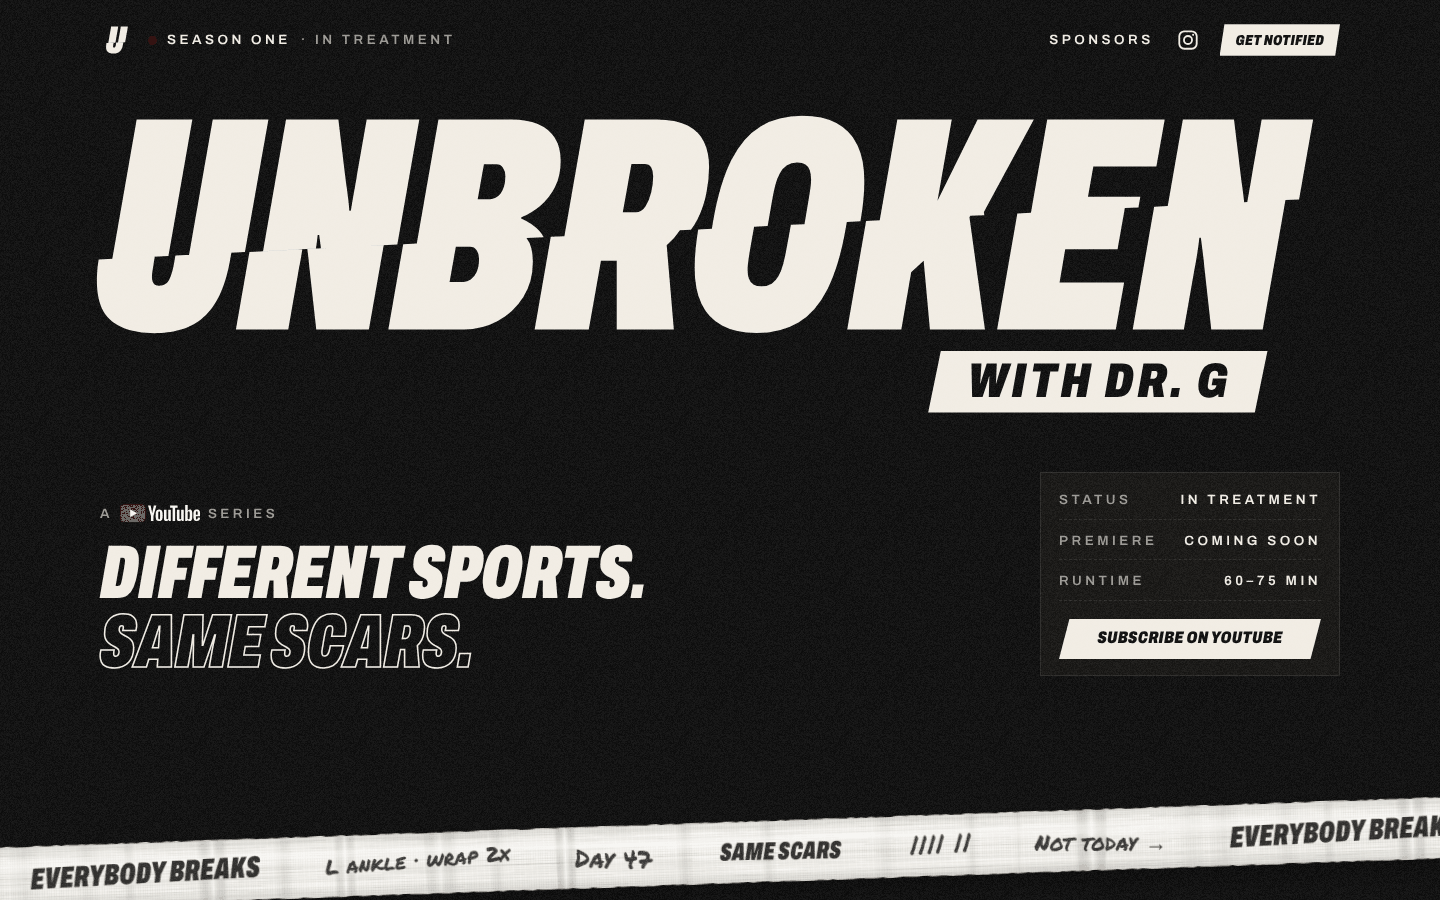
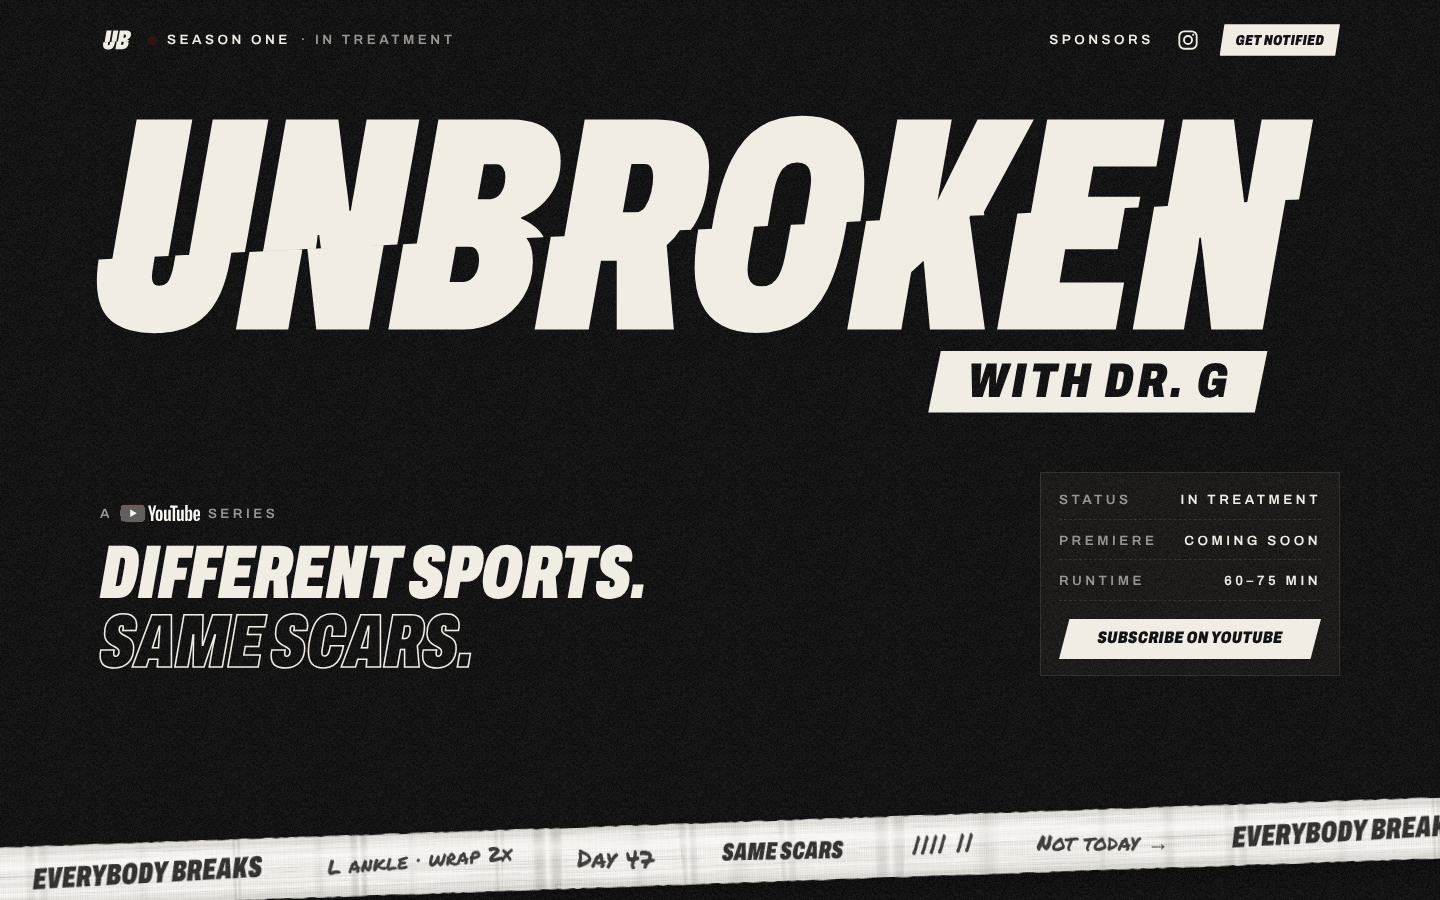
Lettermark becomes a UB monogram
U and B set as a pair with the wordmark's spacing and the same cut.
Header, chart and footer icons, favicons and README previews updated.

Claude-Session: https://claude.ai/code/session_01VykHYx9N7YApPQg7ihujk5

diff --git a/public/index.html b/public/index.html
@@ -303,7 +303,7 @@ display: grid; gap: 14px;
 <body>
 <svg width="0" height="0" style="position:absolute" aria-hidden="true">
 <symbol id="lockup" viewBox="0 0 1375.68 355.32"><path transform="translate(336.49 13.16)" d="M-79.65 142.68 L-79.45 141.22 L-79.26 139.81 L-79.09 138.44 L-78.92 137.11 L-78.77 135.83 L-78.62 134.59 L-78.49 133.40 L-78.38 132.25 L-76.69 132.25 L-76.52 133.51 L-76.35 134.79 L-76.17 136.09 L-75.99 137.43 L-75.81 138.80 L-75.63 140.19 L-75.45 141.61 L-75.26 143.06 L-75.07 144.53 L-74.88 146.04 L-74.77 146.94 L9.99 142.70 L34.39 3.96 L-24.02 3.96 L-34.49 63.72 L-34.72 65.20 L-34.96 66.73 L-35.21 68.31 L-35.48 69.93 L-35.76 71.59 L-36.05 73.30 L-36.35 75.05 L-36.66 76.85 L-36.99 78.69 L-37.32 80.58 L-37.67 82.51 L-38.03 84.48 L-38.39 86.46 L-38.74 88.39 L-39.08 90.27 L-39.40 92.12 L-39.71 93.91 L-40.01 95.67 L-40.30 97.37 L-40.58 99.04 L-40.85 100.66 L-41.10 102.23 L-41.35 103.76 L-41.58 105.24 L-43.26 105.24 L-43.32 104.34 L-43.39 103.44 L-43.45 102.53 L-43.53 101.62 L-43.60 100.71 L-43.69 99.80 L-43.77 98.89 L-43.86 97.97 L-43.96 97.05 L-44.06 96.12 L-44.17 95.20 L-44.28 94.27 L-44.39 93.35 L-44.50 92.42 L-44.61 91.51 L-44.73 90.60 L-44.84 89.69 L-44.95 88.79 L-45.06 87.89 L-45.18 86.99 L-45.29 86.11 L-45.40 85.22 L-45.51 84.34 L-45.63 83.47 L-45.74 82.60 L-45.85 81.75 L-45.97 80.90 L-46.08 80.07 L-46.19 79.25 L-46.30 78.45 L-46.42 77.65 L-46.53 76.87 L-46.64 76.09 L-46.75 75.33 L-46.87 74.58 L-46.98 73.85 L-55.42 3.96 L-113.49 3.96 L-138.99 150.15 L-80.31 147.21 L-80.09 145.74 L-79.86 144.19ZM-159.05 151.15 L-133.02 3.96 L-194.80 3.96 L-221.13 154.26ZM-306.10 157.74 L-306.23 158.51 L-243.95 155.40 L-217.42 3.96 L-279.20 3.96 L-305.88 156.56ZM-89.39 151.46 L-89.20 152.99 L-89.02 154.50 L-88.85 155.97 L-88.69 157.42 L-88.53 158.84 L-88.38 160.23 L-88.23 161.60 L-88.10 162.94 L-87.97 164.24 L-87.84 165.52 L-87.73 166.78 L-79.96 237.00 L-21.55 237.00 L-5.10 143.46 L-89.86 147.70 L-89.78 148.33 L-89.58 149.89ZM-98.03 163.62 L-97.76 162.18 L-97.49 160.71 L-97.22 159.22 L-96.96 157.70 L-96.69 156.16 L-96.43 154.59 L-96.17 152.99 L-95.92 151.37 L-95.66 149.73 L-95.41 148.09 L-95.40 147.97 L-154.08 150.91 L-169.09 237.00 L-111.02 237.00 L-98.87 167.79 L-98.59 166.43 L-98.31 165.04ZM-241.77 239.73 L-238.50 239.15 L-235.30 238.47 L-232.17 237.68 L-229.11 236.78 L-226.12 235.78 L-223.21 234.67 L-220.36 233.46 L-217.58 232.12 L-214.88 230.64 L-212.26 229.01 L-209.72 227.25 L-207.26 225.34 L-204.87 223.28 L-202.56 221.09 L-200.32 218.75 L-198.17 216.27 L-196.09 213.64 L-194.09 210.88 L-192.17 207.97 L-190.32 204.89 L-188.56 201.64 L-186.88 198.22 L-185.28 194.61 L-183.77 190.83 L-182.33 186.86 L-180.98 182.72 L-179.71 178.40 L-178.52 173.91 L-177.42 169.23 L-176.39 164.38 L-175.45 159.35 L-174.14 151.91 L-236.22 155.02 L-237.58 162.72 L-237.92 164.66 L-238.29 166.53 L-238.67 168.33 L-239.08 170.06 L-239.50 171.72 L-239.94 173.32 L-240.40 174.84 L-240.88 176.30 L-241.37 177.70 L-241.89 179.02 L-242.42 180.27 L-242.98 181.46 L-243.57 182.57 L-244.22 183.58 L-244.94 184.49 L-245.72 185.31 L-246.55 186.03 L-247.45 186.65 L-248.41 187.18 L-249.43 187.61 L-250.51 187.95 L-251.65 188.19 L-252.85 188.34 L-254.12 188.38 L-254.83 188.37 L-255.51 188.31 L-256.15 188.22 L-256.76 188.10 L-257.34 187.94 L-257.87 187.75 L-258.38 187.52 L-258.84 187.26 L-259.28 186.96 L-259.67 186.62 L-260.04 186.26 L-260.36 185.85 L-260.66 185.41 L-260.93 184.95 L-261.18 184.45 L-261.40 183.92 L-261.59 183.36 L-261.76 182.77 L-261.90 182.15 L-262.01 181.50 L-262.10 180.82 L-262.17 180.11 L-262.21 179.36 L-262.22 178.59 L-262.22 178.08 L-262.20 177.55 L-262.18 177.01 L-262.15 176.45 L-262.10 175.88 L-262.05 175.30 L-261.99 174.70 L-261.92 174.09 L-261.84 173.46 L-261.75 172.82 L-261.65 172.17 L-261.55 171.50 L-261.43 170.82 L-261.32 170.13 L-261.21 169.43 L-261.10 168.73 L-260.98 168.01 L-260.87 167.28 L-260.76 166.55 L-260.65 165.80 L-260.53 165.05 L-260.42 164.28 L-260.31 163.51 L-260.20 162.72 L-259.04 156.16 L-321.32 159.27 L-321.39 159.67 L-321.59 160.84 L-321.77 161.99 L-321.95 163.14 L-322.11 164.29 L-322.25 165.42 L-322.39 166.55 L-322.52 167.67 L-322.63 168.79 L-322.73 169.90 L-322.82 171.00 L-322.90 172.09 L-322.98 173.17 L-323.04 174.24 L-323.10 175.29 L-323.16 176.34 L-323.20 177.37 L-323.24 178.39 L-323.27 179.40 L-323.30 180.40 L-323.32 181.38 L-323.33 182.36 L-323.33 183.32 L-323.21 188.48 L-322.86 193.38 L-322.27 198.02 L-321.45 202.39 L-320.40 206.51 L-319.11 210.37 L-317.59 213.97 L-315.83 217.31 L-313.83 220.38 L-311.61 223.20 L-309.14 225.76 L-306.45 228.05 L-303.54 230.13 L-300.45 232.02 L-297.16 233.74 L-293.69 235.27 L-290.04 236.63 L-286.19 237.80 L-282.16 238.79 L-277.94 239.61 L-273.53 240.24 L-268.94 240.69 L-264.15 240.96 L-259.18 241.05 L-255.56 241.00 L-252.01 240.84 L-248.53 240.58 L-245.12 240.21ZM523.81 117.01 508.67 117.77Q508.13 121.22 507.5 124.8Q500.24 166.38 487.37 191.96Q474.5 217.53 455.03 229.24Q435.56 240.96 408.5 240.96Q385.4 240.96 370.22 232.71Q355.04 224.46 347.45 208.46Q339.86 192.45 339.86 168.69Q339.86 158.46 341.02 146.91Q342 137.06 343.82 126.01L359 125.25Q359.67 120.81 360.48 116.16Q367.74 74.58 380.61 49.01Q393.48 23.43 412.95 11.72Q432.42 0.0 459.15 0.0Q482.25 0.0 497.6 8.25Q512.94 16.5 520.53 32.67Q528.12 48.84 528.12 72.6Q528.12 82.83 526.97 94.21Q525.89 104.83 523.81 117.01ZM172.38 134.58 153.26 135.54Q160.38 144.59 160.38 161.76Q160.38 184.2 149.66 201.2Q138.93 218.19 121.44 227.6Q103.95 237.0 83.82 237.0H0.0L16.5 142.38L31.59 141.62L55.6 3.96H137.11Q153.61 3.96 165.82 9.08Q178.03 14.19 184.63 24.42Q191.23 34.65 191.23 49.83Q191.23 66.66 184.96 79.04Q178.69 91.41 168.79 99.66Q158.89 107.91 147.67 112.53L147.34 113.85Q159.88 119.13 168.13 128.21Q170.64 130.96 172.38 134.58ZM335.71 126.42 323.49 127.03Q317.52 136.43 308.86 143.61L316.78 237.0H253.42V160.77H235.93L222.4 237.0H162.34L180.27 134.19L195.36 133.44L217.94 3.96H297.47Q319.25 3.96 332.12 10.72Q344.99 17.49 350.43 29.2Q355.88 40.92 355.88 56.43Q355.88 70.29 352.91 85.63Q349.94 100.98 343.17 114.51Q339.98 120.91 335.71 126.42ZM949.53 95.73 952.97 95.55Q953.96 89.67 955.24 82.67Q957.39 70.95 958.71 62.37L968.94 3.96H1026.03L1010.43 92.68L995.35 93.44L970.1 237.0H913.01L905.42 168.36Q904.76 161.1 903.61 151.86Q902.45 142.62 901.46 135.36H899.81Q899.15 141.96 897.67 151.69Q896.18 161.43 894.53 169.35L882.65 237.0H825.89L849.66 100.72L864.74 99.97L881.49 3.96H938.25L946.5 72.27Q947.16 76.56 947.82 81.67Q948.48 86.79 949.14 92.23Q949.35 93.99 949.53 95.73ZM661.25 110.14 645.66 110.92 644.76 112.59 661.92 237.0H600.87L593.94 160.77L580.08 173.64L569.19 237.0H509.13L530.11 116.7L545.2 115.94L564.73 3.96H625.12L609.28 94.05L653.83 3.96H716.2L660.76 106.59ZM832.22 101.59 817.15 102.35 809.08 147.9H751.0L744.73 184.86H816.34L807.1 237.0H675.43L697.88 108.31L712.96 107.56L731.03 3.96H861.38L852.14 56.1H782.18L776.24 89.76H834.32ZM612.95 261.0H975.35L961.35 329.0H598.95ZM461.71 120.12Q462.99 112.89 463.93 107.25Q466.08 94.38 467.24 87.12Q468.39 79.86 468.72 76.23Q469.05 72.6 469.05 70.29Q469.05 64.35 467.57 60.23Q466.08 56.1 462.78 53.96Q459.48 51.81 453.54 51.81Q446.94 51.81 442.32 54.78Q437.7 57.75 434.57 63.36Q431.43 68.97 429.45 76.56Q427.47 84.15 425.82 93.72Q422.94 110.48 420.89 122.16L405.81 122.91Q404.75 128.96 403.88 133.88Q401.57 146.91 400.42 154.17Q399.26 161.43 398.93 164.89Q398.6 168.36 398.6 171.0Q398.6 176.61 400.09 180.73Q401.57 184.86 405.04 187Q408.5 189.15 414.11 189.15Q420.71 189.15 425.33 186.18Q429.95 183.21 432.92 177.76Q435.89 172.32 438.04 164.57Q440.18 156.81 441.83 147.24Q444.71 131.87 446.63 120.87ZM260.18 106.92H274.7Q280.97 106.92 285.26 100.49Q289.55 94.05 291.69 84.81Q293.84 75.57 293.84 66.99Q293.84 61.05 291.69 57.26Q289.55 53.46 284.27 53.46H269.75ZM647.7 312.0H659.31L664.82 294.88Q665.04 294.23 665.34 293.26Q665.63 292.29 665.96 291.24Q666.28 290.18 666.55 289.27H666.93Q666.87 290.08 666.82 291.1Q666.77 292.13 666.71 293.13Q666.66 294.13 666.66 294.88L666.23 312.0H678L691.39 274.85H680.97L676 291.43Q675.78 292.13 675.51 293.1Q675.24 294.07 674.97 295.1Q674.7 296.12 674.43 297.04H674.06Q674.11 296.12 674.16 295.07Q674.22 294.02 674.3 293.05Q674.38 292.07 674.38 291.43L675.08 274.85H663.96L658.67 291.43Q658.45 292.02 658.18 292.96Q657.91 293.91 657.59 294.99Q657.26 296.07 656.99 297.04H656.61Q656.67 296.07 656.75 294.99Q656.83 293.91 656.91 292.96Q656.99 292.02 656.99 291.43L658.07 274.85H647ZM67.98 184.2H83.82Q87.45 184.2 91.41 181.56Q95.37 178.92 98.01 173.15Q100.65 167.37 100.65 158.46Q100.65 152.85 98.01 149.06Q95.37 145.26 90.75 145.26H74.91ZM794.82 312.0H808.91Q813.99 312.0 817.34 310.03Q820.69 308.06 822.74 304.04Q824.79 300.01 825.87 293.86Q826.25 291.75 826.44 289.91Q826.63 288.08 826.63 286.51Q826.63 280.52 823.66 277.68Q820.69 274.85 814.31 274.85H801.35ZM99.16 92.4H113.02Q115.99 92.4 118.96 90.91Q121.93 89.43 124.41 86.29Q126.88 83.16 128.37 78.38Q129.85 73.59 129.85 66.99Q129.85 61.38 127.21 57.58Q124.57 53.79 119.95 53.79H106.09ZM831.27 312.0H841.86L844.07 299.53H848.01L849.2 312.0H860.54L858.06 296.99Q860.16 295.58 861.51 293.53Q862.86 291.48 863.54 288.94Q864.21 286.4 864.21 283.76Q864.21 281.17 863.22 279.17Q862.22 277.17 860 276.01Q857.79 274.85 854.12 274.85H837.81ZM746 312.0H756.53L759.06 297.58H765.92L763.38 312.0H773.97L780.56 274.85H769.97L767.49 288.78H760.63L763.11 274.85H752.53ZM910.67 312.65Q913.04 312.65 914.88 312.11Q916.71 311.57 918.2 310.62Q919.68 309.68 920.82 308.49L921.03 312.0H926.43L930.11 291.26H914.82L913.47 298.82H918.77L918.71 299.04Q918.5 300.39 917.77 301.52Q917.04 302.66 915.93 303.33Q914.82 304.01 913.31 304.01Q911.85 304.01 910.94 303.55Q910.02 303.09 909.59 302.23Q909.15 301.36 909.15 300.01Q909.15 299.69 909.21 299.17Q909.26 298.66 909.42 297.69Q909.59 296.72 909.86 294.94Q910.13 293.15 910.67 290.29Q910.99 288.46 911.48 287.05Q911.96 285.65 912.72 284.7Q913.47 283.76 914.53 283.3Q915.58 282.84 916.98 282.84Q917.9 282.84 918.58 283.06Q919.25 283.27 919.74 283.7Q920.22 284.14 920.44 284.76Q920.66 285.38 920.66 286.13Q920.66 286.62 920.6 287.16Q920.55 287.7 920.44 288.29H930.59Q930.75 287.27 930.86 286.35Q930.97 285.43 930.97 284.62Q930.97 282.03 930.05 280.06Q929.13 278.09 927.43 276.79Q925.73 275.5 923.3 274.85Q920.87 274.2 917.79 274.2Q913.2 274.2 909.61 275.96Q906.02 277.71 903.57 281.46Q901.11 285.22 899.76 291.26Q899.27 293.37 899 295.48Q898.73 297.58 898.73 299.63Q898.73 306.17 901.81 309.41Q904.89 312.65 910.67 312.65ZM718.83 312.0H729.41L734.44 283.7H743.18L744.75 274.85H716.51L714.94 283.7H723.85ZM691.66 312.0H702.19L708.78 274.85H698.2ZM806.92 303.36 810.37 283.49H812.75Q813.94 283.49 814.64 283.92Q815.34 284.35 815.66 285.11Q815.99 285.86 815.99 287Q815.99 287.54 815.88 288.38Q815.77 289.21 815.48 291.05Q815.18 292.88 814.53 296.39Q814.21 298.12 813.8 299.45Q813.4 300.77 812.8 301.63Q812.21 302.5 811.34 302.93Q810.48 303.36 809.24 303.36ZM867.46 312.0H876.42L878.15 301.96H869.24ZM845.42 291.53 846.93 283.06H851.36Q852.33 283.06 852.82 283.76Q853.31 284.46 853.31 285.59Q853.31 287 852.85 288.38Q852.39 289.75 851.55 290.64Q850.71 291.53 849.69 291.53Z" fill="currentColor"/></symbol>
-<symbol id="b-icon" viewBox="0 0 1000 1000"><path d="M612.96 100.00 L530.01 573.43 L739.55 562.95 L821.42 100.00ZM242.92 587.78 L453.01 577.27 L536.64 100.00 L328.18 100.00ZM430.97 898.40 L442.48 897.15 L453.75 895.54 L464.78 893.59 L475.58 891.28 L486.15 888.61 L496.47 885.58 L506.56 882.20 L516.41 878.46 L526.02 874.36 L535.37 869.86 L544.47 864.86 L553.32 859.38 L561.90 853.42 L570.21 846.97 L578.27 840.06 L586.07 832.64 L593.60 824.76 L600.88 816.38 L607.89 807.52 L614.65 798.18 L621.13 788.36 L627.35 778.00 L633.30 767.03 L638.97 755.47 L644.36 743.30 L649.47 730.53 L654.31 717.17 L658.87 703.19 L663.16 688.63 L667.16 673.45 L670.89 657.68 L674.34 641.30 L677.52 624.33 L687.92 565.55 L478.38 576.03 L467.91 635.72 L466.75 642.25 L465.51 648.55 L464.22 654.62 L462.85 660.46 L461.44 666.07 L459.94 671.46 L458.40 676.61 L456.78 681.53 L455.11 686.23 L453.36 690.69 L451.56 694.93 L449.69 698.94 L447.69 702.67 L445.49 706.07 L443.07 709.15 L440.45 711.91 L437.62 714.35 L434.59 716.46 L431.36 718.24 L427.93 719.70 L424.28 720.83 L420.42 721.64 L416.36 722.13 L412.10 722.29 L409.69 722.23 L407.40 722.06 L405.23 721.76 L403.18 721.34 L401.24 720.81 L399.43 720.16 L397.73 719.39 L396.15 718.49 L394.69 717.49 L393.35 716.36 L392.13 715.11 L391.03 713.75 L390.03 712.27 L389.11 710.70 L388.28 709.01 L387.55 707.23 L386.89 705.35 L386.33 703.35 L385.85 701.26 L385.45 699.07 L385.15 696.77 L384.94 694.37 L384.81 691.87 L384.76 689.26 L384.78 687.52 L384.83 685.75 L384.91 683.91 L385.02 682.04 L385.15 680.12 L385.33 678.15 L385.53 676.13 L385.77 674.07 L386.04 671.95 L386.34 669.80 L386.68 667.59 L387.04 665.34 L387.42 663.04 L387.80 660.72 L388.17 658.36 L388.55 655.97 L388.94 653.55 L389.32 651.09 L389.70 648.61 L390.08 646.10 L390.46 643.55 L390.84 640.98 L391.21 638.36 L391.59 635.72 L401.38 579.87 L191.29 590.38 L186.55 617.49 L185.82 621.47 L185.11 625.42 L184.45 629.34 L183.83 633.25 L183.24 637.13 L182.71 640.99 L182.21 644.82 L181.74 648.63 L181.32 652.42 L180.93 656.18 L180.59 659.91 L180.28 663.63 L180.01 667.31 L179.76 670.96 L179.54 674.56 L179.34 678.12 L179.16 681.64 L179.01 685.13 L178.88 688.57 L178.77 691.98 L178.68 695.35 L178.63 698.67 L178.59 701.96 L178.58 705.21 L178.97 722.61 L180.15 739.14 L182.14 754.79 L184.91 769.57 L188.47 783.46 L192.81 796.48 L197.96 808.62 L203.89 819.88 L210.61 830.26 L218.13 839.77 L226.43 848.40 L235.53 856.14 L245.34 863.15 L255.79 869.54 L266.86 875.33 L278.56 880.50 L290.91 885.08 L303.88 889.04 L317.49 892.38 L331.73 895.13 L346.60 897.26 L362.10 898.78 L378.24 899.69 L395.01 900.00 L407.23 899.82 L419.22 899.28Z" fill="currentColor"/></symbol>
+<symbol id="b-icon" viewBox="0 0 1000 1000"><path d="M854.41 520.15 L851.03 516.57 L847.50 513.13 L843.84 509.80 L840.03 506.61 L836.07 503.54 L831.97 500.60 L827.73 497.78 L823.35 495.09 L818.82 492.53 L814.15 490.09 L809.33 487.79 L804.38 485.61 L805.17 482.43 L809.65 480.52 L814.08 478.48 L818.47 476.32 L822.82 474.05 L827.12 471.65 L831.38 469.13 L835.59 466.48 L839.76 463.72 L843.89 460.84 L847.97 457.83 L852.00 454.70 L856.00 451.46 L859.91 448.08 L863.70 444.56 L867.36 440.91 L870.91 437.12 L874.33 433.19 L877.64 429.12 L880.82 424.92 L883.88 420.57 L886.82 416.09 L889.64 411.47 L892.34 406.72 L894.91 401.82 L897.32 396.78 L899.52 391.60 L901.51 386.26 L903.29 380.78 L904.87 375.14 L906.23 369.36 L907.38 363.43 L908.32 357.35 L909.06 351.12 L909.58 344.74 L909.90 338.21 L910.00 331.54 L909.89 325.53 L909.56 319.69 L909.01 314.02 L908.24 308.51 L907.24 303.16 L906.03 297.99 L904.60 292.97 L902.94 288.12 L901.07 283.44 L898.97 278.93 L896.65 274.57 L894.12 270.39 L891.38 266.37 L888.45 262.52 L885.33 258.85 L882.03 255.34 L878.54 252.01 L874.86 248.85 L870.99 245.85 L866.94 243.03 L862.70 240.38 L858.27 237.90 L853.65 235.60 L848.85 233.46 L843.88 231.49 L838.77 229.70 L833.51 228.07 L828.11 226.62 L822.57 225.34 L816.88 224.23 L811.06 223.29 L805.08 222.52 L798.97 221.92 L792.71 221.49 L786.30 221.24 L779.76 221.15 L583.60 221.15 L527.12 544.96 L860.61 528.29 L860.48 528.06 L857.58 523.95ZM743.72 341.64 L745.34 342.08 L746.90 342.65 L748.39 343.35 L749.81 344.18 L751.17 345.13 L752.46 346.21 L753.68 347.41 L754.84 348.74 L755.93 350.20 L756.95 351.75 L757.87 353.37 L758.71 355.04 L759.46 356.78 L760.12 358.57 L760.70 360.43 L761.18 362.34 L761.58 364.32 L761.89 366.36 L762.11 368.46 L762.24 370.61 L762.29 372.83 L762.26 375.45 L762.19 378.01 L762.06 380.50 L761.89 382.94 L761.67 385.31 L761.39 387.63 L761.07 389.88 L760.70 392.07 L760.28 394.20 L759.80 396.27 L759.28 398.28 L758.71 400.23 L758.10 402.12 L757.46 403.96 L756.78 405.74 L756.07 407.47 L755.32 409.14 L754.54 410.76 L753.73 412.32 L752.89 413.82 L752.01 415.27 L751.10 416.67 L750.16 418.01 L749.18 419.29 L748.18 420.52 L747.16 421.70 L746.13 422.82 L745.08 423.88 L744.01 424.89 L742.93 425.84 L741.83 426.74 L740.71 427.59 L739.58 428.38 L738.43 429.11 L737.26 429.79 L736.08 430.41 L734.89 430.98 L733.70 431.50 L732.51 431.97 L731.31 432.40 L730.12 432.77 L728.93 433.09 L727.74 433.36 L726.55 433.59 L725.36 433.76 L724.17 433.89 L722.98 433.96 L721.78 433.99 L688.43 433.99 L705.11 341.07 L738.46 341.07 L740.28 341.13 L742.04 341.32ZM333.90 554.62 L479.98 547.32 L537.66 221.15 L392.33 221.15ZM133.76 564.63 L280.23 557.31 L339.12 221.15 L193.79 221.15ZM701.38 763.66 L708.88 761.62 L716.29 759.26 L723.61 756.59 L730.85 753.60 L738.00 750.30 L745.06 746.69 L751.96 742.79 L758.63 738.63 L765.08 734.23 L771.31 729.57 L777.31 724.65 L783.08 719.49 L788.62 714.07 L793.94 708.39 L799.03 702.46 L803.90 696.28 L808.54 689.84 L812.96 683.15 L817.08 676.25 L820.84 669.16 L824.25 661.88 L827.30 654.43 L829.98 646.80 L832.31 638.98 L834.29 630.98 L835.90 622.80 L837.15 614.43 L838.05 605.89 L838.59 597.16 L838.77 588.25 L838.63 581.00 L838.22 574.06 L837.53 567.43 L836.56 561.12 L835.32 555.12 L833.80 549.44 L832.01 544.07 L829.94 539.01 L827.60 534.27 L825.11 530.08 L491.63 546.75 L452.81 769.32 L654.52 769.32 L662.55 769.16 L670.49 768.69 L678.35 767.91 L686.11 766.81 L693.79 765.39ZM679.64 550.13 L681.13 550.83 L682.55 551.65 L683.91 552.60 L685.20 553.68 L686.42 554.89 L687.58 556.22 L688.67 557.68 L689.69 559.23 L690.61 560.84 L691.45 562.52 L692.20 564.25 L692.86 566.05 L693.44 567.90 L693.92 569.82 L694.32 571.79 L694.63 573.83 L694.85 575.93 L694.98 578.09 L695.02 580.31 L694.98 583.83 L694.85 587.25 L694.63 590.56 L694.32 593.77 L693.92 596.87 L693.44 599.87 L692.86 602.76 L692.20 605.55 L691.45 608.23 L690.61 610.81 L689.69 613.28 L688.67 615.65 L687.59 617.91 L686.46 620.07 L685.30 622.13 L684.08 624.08 L682.83 625.92 L681.52 627.66 L680.18 629.30 L678.79 630.83 L677.35 632.25 L675.88 633.57 L674.35 634.79 L672.79 635.90 L671.20 636.92 L669.63 637.84 L668.07 638.68 L666.52 639.43 L664.98 640.09 L663.46 640.67 L661.94 641.15 L660.43 641.55 L658.94 641.86 L657.46 642.08 L655.98 642.21 L654.52 642.25 L616.40 642.25 L633.08 548.54 L671.20 548.54 L673.02 548.61 L674.77 548.80 L676.46 549.11 L678.08 549.56ZM281.84 775.75 L289.53 774.38 L297.06 772.77 L304.42 770.91 L311.62 768.80 L318.65 766.44 L325.52 763.84 L332.22 760.98 L338.75 757.83 L345.09 754.35 L351.25 750.53 L357.23 746.38 L363.03 741.89 L368.65 737.06 L374.09 731.89 L379.34 726.39 L384.41 720.55 L389.30 714.38 L394.01 707.87 L398.53 701.02 L402.87 693.80 L407.01 686.15 L410.96 678.09 L414.72 669.61 L418.29 660.71 L421.66 651.39 L424.84 641.65 L427.83 631.49 L430.62 620.91 L433.22 609.91 L435.63 598.50 L437.84 586.66 L444.48 549.11 L298.41 556.41 L291.72 594.60 L290.90 599.16 L290.04 603.55 L289.14 607.78 L288.19 611.86 L287.19 615.77 L286.16 619.52 L285.08 623.11 L283.95 626.55 L282.78 629.82 L281.57 632.93 L280.31 635.89 L279.01 638.68 L277.61 641.28 L276.08 643.66 L274.39 645.80 L272.57 647.73 L270.60 649.42 L268.49 650.89 L266.23 652.13 L263.83 653.15 L261.29 653.94 L258.60 654.51 L255.78 654.85 L252.80 654.96 L251.12 654.92 L249.53 654.80 L248.01 654.59 L246.58 654.30 L245.23 653.93 L243.97 653.47 L242.78 652.93 L241.68 652.31 L240.67 651.61 L239.73 650.82 L238.88 649.96 L238.11 649.00 L237.41 647.98 L236.78 646.88 L236.20 645.70 L235.68 644.46 L235.23 643.15 L234.83 641.76 L234.50 640.30 L234.23 638.77 L234.02 637.17 L233.86 635.49 L233.77 633.75 L233.74 631.93 L233.75 630.72 L233.79 629.48 L233.84 628.21 L233.92 626.90 L234.02 625.56 L234.14 624.19 L234.28 622.78 L234.45 621.34 L234.64 619.87 L234.85 618.36 L235.08 616.82 L235.33 615.25 L235.60 613.65 L235.86 612.03 L236.13 610.39 L236.39 608.72 L236.65 607.04 L236.92 605.33 L237.18 603.59 L237.45 601.84 L237.71 600.06 L237.98 598.27 L238.24 596.45 L238.51 594.60 L244.73 559.09 L98.26 566.42 L95.56 581.90 L95.04 584.67 L94.56 587.42 L94.09 590.16 L93.66 592.88 L93.26 595.59 L92.88 598.28 L92.53 600.95 L92.21 603.61 L91.91 606.24 L91.64 608.87 L91.40 611.47 L91.19 614.06 L91.00 616.63 L90.83 619.17 L90.67 621.68 L90.53 624.17 L90.41 626.62 L90.30 629.05 L90.21 631.45 L90.13 633.83 L90.07 636.17 L90.03 638.49 L90.01 640.78 L90.00 643.05 L90.28 655.18 L91.10 666.71 L92.48 677.62 L94.41 687.92 L96.89 697.61 L99.93 706.68 L103.51 715.14 L107.65 722.99 L112.34 730.23 L117.58 736.86 L123.37 742.87 L129.71 748.27 L136.55 753.16 L143.83 757.62 L151.55 761.65 L159.71 765.26 L168.31 768.45 L177.36 771.21 L186.84 773.54 L196.77 775.45 L207.14 776.94 L217.95 778.00 L229.20 778.64 L240.89 778.85 L249.41 778.73 L257.77 778.35 L265.96 777.73 L273.98 776.86Z" fill="currentColor"/></symbol>
 </svg>
 <header class="topbar">
 <div class="wrap">

diff --git a/README.md b/README.md
@@ -99,7 +99,7 @@ The page follows the UNBROKEN with Dr. G brand kit. For anything new:
 
 - **Colour:** Ink `#0B0B0B` and Bone `#F1ECE3`, one at a time: bone on ink, or ink on bone. The only red is the blinking recording light (`--rec`) and the official YouTube logo.
 - **Type:** Archivo from Google Fonts. Display is italic, width 62, weight 900, uppercase. Labels are width 100, weight 600, in letter-spaced caps. The handwriting on the tape uses Permanent Marker, and only there.
-- **Logo:** use the files in `src/brand/` as they are. The fracture is one straight cut through all eight letters of UNBROKEN; the icon is the snapped U. Never recolour the tag separately, stretch, rotate, outline or rebuild the break. Clear space is the height of the tag on every side.
+- **Logo:** use the files in `src/brand/` as they are. The fracture is one straight cut through all eight letters of UNBROKEN; the icon is the UB monogram, cut the same way. Never recolour the tag separately, stretch, rotate, outline or rebuild the break. Clear space is the height of the tag on every side.
 - **Buttons** reuse the slanted "WITH DR. G" tag shape (`.tag-btn`).
 - **Voice:** short, plain and deadpan.
 
